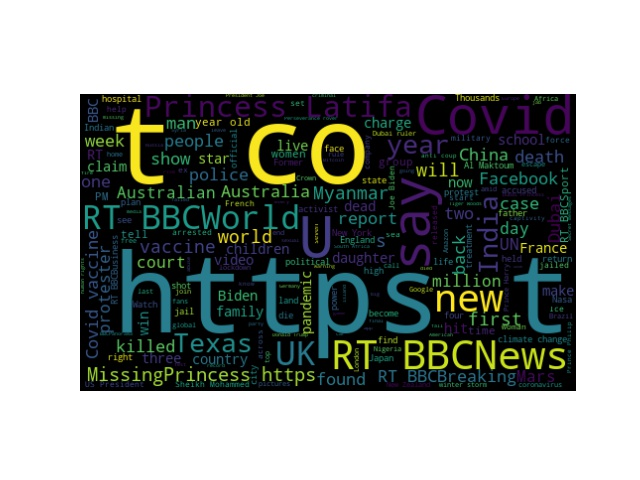
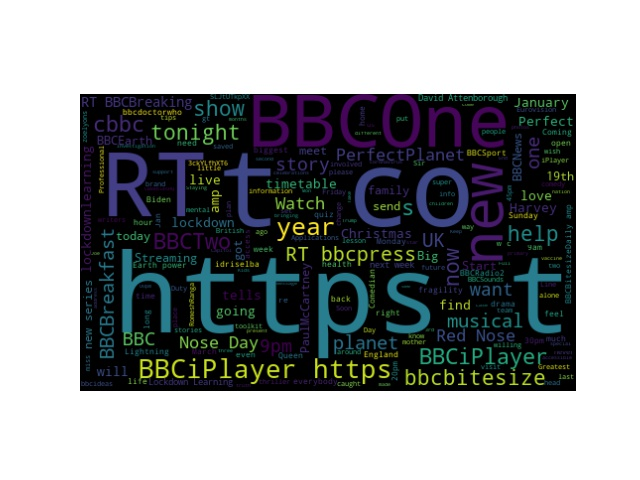
Almost done and new version for the project

Changed region(s): [[0.125, 0.1875, 0.9062, 0.8125]]

diff --git a/TwitterApp.py b/TwitterApp.py
@@ -37,29 +37,82 @@ api = tweepy.API(authenticate, wait_on_rate_limit=True)
 
 
 def app():
+    # Decorating the Nav Bar which is left side of APP
     st.sidebar.header("NAVIGATION")
-    st.title("Tweet Analyzer 🔥")
-    activities = ["Tweet Analyzer", "Generate Twitter Data",
+    st.title("REAL TIME SENTIMENT ANALYSIS ON TWITTER ✨")
+    activities = ["Collect The Data", "Clean The Data", "Summary View of Tweets Collected",
                   "Tweet Analyzer Using K Means", "Tweet Analyser with search keyword"]
+
     # choice = st.sidebar.selectbox("Type Of your Activity", activities)
     choice = st.sidebar.radio("Select Your Activity", activities)
     st.sidebar.header("CONFIGURATION NAV BAR")
-    No_Of_Tweets = st.sidebar.slider("No of Tweets", 1000, 10000)
+    No_Of_Tweets = st.sidebar.slider("No of Tweets", 100, 5000)
     No_Of_Tweets_In_String = str(No_Of_Tweets)
+    UserID = st.text_area(
+        "Enter the exact twitter User Id of the User you want to Analyze (without @)")
+    st.markdown(
+        "🔴 Note--> Don't move to next Navbar Section without completing this section.")
+    TweetsData = pd.DataFrame()
 
-    if(choice == "Tweet Analyzer"):
-        st.subheader("Analyze the tweets of your favourite User")
+    def collectData():
+        posts = tweepy.Cursor(api.user_timeline, screen_name=UserID,
+                              tweet_mode="extended").items(No_Of_Tweets)
+        TweetsData = pd.DataFrame(
+            [tweet.full_text for tweet in posts], columns=['Tweets'])
+        return(TweetsData)
+
+    # Step 1
+    if(choice == "Collect The Data"):
+        st.subheader("Analyze the tweets of your favourite User 👦👧:")
+        st.subheader("This tool performs the following tasks as given below:")
+        st.write("1. Fetches the 5 most recent tweets from the given twitter handel")
+        st.write("2. It also collects the tweets which are tweeted by a userID")
+        st.write("3. In this section you just collect the Real Time data and can be used for analyses purpose in next section.")
+
+        if(st.button("Collect The Data")):
+            st.success("Data is being Collected wait for some time")
+            posts = tweepy.Cursor(
+                api.user_timeline, screen_name=UserID, tweet_mode="extended").items(No_Of_Tweets)
+            TweetsData = pd.DataFrame(
+                [tweet.full_text for tweet in posts], columns=['Tweets'])
+            st.write(TweetsData)
+
+    # Step 2
+    elif(choice == "Clean The Data"):
+        TweetsData = collectData()
+
+        def cleanTxt(text):
+            # Removing @mentions
+            text = re.sub('@[A-Za-z0–9]+', '', text)
+            text = re.sub('#', '', text)  # Removing '#' hash tag
+            text = re.sub('RT[\s]+', '', text)  # Removing RT
+            text = re.sub('https?:\/\/\S+', '', text)  # Removing hyperlink
+            return(text)
+
+        # Clean the tweets
+        TweetsData['Tweets'] = TweetsData['Tweets'].apply(cleanTxt)
+        st.write(TweetsData)
+
+    # Step 3
+    elif(choice == "Summary View of Tweets Collected"):
+        TweetsData = collectData()
+
+        def cleanTxt(text):
+            # Removing @mentions
+            text = re.sub('@[A-Za-z0–9]+', '', text)
+            text = re.sub('#', '', text)  # Removing '#' hash tag
+            text = re.sub('RT[\s]+', '', text)  # Removing RT
+            text = re.sub('https?:\/\/\S+', '', text)  # Removing hyperlink
+            return(text)
+        # Clean the tweets
+        TweetsData['Tweets'] = TweetsData['Tweets'].apply(cleanTxt)
+
+        st.subheader("Analyze the tweets of your favourite User 👦👧:")
         st.subheader("This tool performs the following tasks as given below:")
         st.write("1. Fetches the 5 most recent tweets from the given twitter handel")
         st.write("2. Generates a Word Cloud")
         st.write(
             "3. Performs Sentiment Analysis a displays it in form of a Bar Graph")
-
-        raw_text = st.text_area(
-            "Enter the exact twitter User Id of the User you weant to Analyze (without @)")
-
-        st.markdown(
-            "<--------Also Do checkout the another cool tool from the sidebar which is left side")
 
         Analyzer_choice = st.selectbox("Select the Activities",  [
                                        "Show Recent Tweets", "Generate WordCloud", "Visualize the Sentiment Analysis"])
@@ -70,22 +123,18 @@ def app():
 
                 def Show_Recent_Tweets(raw_text):
                     rl = []
-                    for status in tweepy.Cursor(api.user_timeline, screen_name=raw_text, tweet_mode="extended").items(5):
-                        rl.append(status.full_text)
+                    for i in range(0, 6):
+                        rl.append(TweetsData['Tweets'][i])
                     return(rl)
 
-                recent_tweets = Show_Recent_Tweets(raw_text)
+                recent_tweets = Show_Recent_Tweets(UserID)
                 st.write(recent_tweets)
 
             elif(Analyzer_choice == "Generate WordCloud"):
                 st.success("Generating Word Cloud")
 
                 def gen_wordcloud():
-                    posts = tweepy.Cursor(
-                        api.user_timeline, screen_name=raw_text, tweet_mode="extended").items(No_Of_Tweets)
-                    # Create a dataframe with a column called Tweets
-                    df = pd.DataFrame(
-                        [tweet.full_text for tweet in posts], columns=['Tweets'])
+                    df = TweetsData
                     # word cloud visualization
                     allWords = ' '.join([twts for twts in df['Tweets']])
                     wordCloud = WordCloud(
@@ -103,11 +152,7 @@ def app():
                 def Plot_Analysis():
                     st.success(
                         "Generating Visualisation for Sentiment Analysis of the User Given.")
-
-                    posts = tweepy.Cursor(
-                        api.user_timeline, screen_name=raw_text, tweet_mode="extended").items(No_Of_Tweets)
-                    df = pd.DataFrame(
-                        [tweet.full_text for tweet in posts], columns=['Tweets'])
+                    df = TweetsData
 
                     # Create a function to clean the tweets
                     def cleanTxt(text):
@@ -148,67 +193,6 @@ def app():
                 df = Plot_Analysis()
                 st.write(sns.countplot(x=df["Analysis"], data=df))
                 st.pyplot(use_container_width=True)
-    elif(choice == "Generate Twitter Data"):
-        st.subheader(
-            "This tool fetches the last "+No_Of_Tweets_In_String+" tweets from the twitter handel & Performs the following tasks")
-        st.write("1. Converts it into a DataFrame")
-        st.write("2. Cleans the text")
-        st.write(
-            "3. Analyzes Subjectivity of tweets and adds an additional column for it")
-        st.write(
-            "4. Analyzes Polarity of tweets and adds an additional column for it")
-        st.write(
-            "5. Analyzes Sentiments of tweets and adds an additional column for it")
-
-        user_name = st.text_area(
-            "*Enter the exact twitter handle of the Personality (without @)*")
-        st.markdown(
-            "<--------Also Do checkout the another cool tool from the sidebar")
-
-        def get_data(user_name):
-            posts = tweepy.Cursor(
-                api.user_timeline, screen_name=user_name, tweet_mode="extended").items(No_Of_Tweets)
-            df = pd.DataFrame(
-                [tweet.full_text for tweet in posts], columns=['Tweets'])
-
-            # cleaning the twitter text function
-            def cleanTxt(text):
-                text = re.sub('@[A-Za-z0–9]+', '', text)  # Removing @mentions
-                text = re.sub('#', '', text)  # Removing '#' hash tag
-                text = re.sub('RT[\s]+', '', text)  # Removing RT
-                text = re.sub('https?:\/\/\S+', '', text)  # Removing hyperlink
-                return(text)
-
-            # Clean the tweets
-            df['Tweets'] = df['Tweets'].apply(cleanTxt)
-
-            def getSubjectivity(text):
-                return(TextBlob(text).sentiment.subjectivity)
-
-            # Create a function to get the polarity
-            def getPolarity(text):
-                return(TextBlob(text).sentiment.polarity)
-
-            # Create two new columns 'Subjectivity' & 'Polarity'
-            df['Subjectivity'] = df['Tweets'].apply(getSubjectivity)
-            df['Polarity'] = df['Tweets'].apply(getPolarity)
-
-            def getAnalysis(score):
-                if(score < 0):
-                    return("Negative")
-                elif(score == 0):
-                    return("Neutral")
-                else:
-                    return("Positive")
-
-            df['Analysis'] = df['Polarity'].apply(getAnalysis)
-            return(df)
-
-        if(st.button("Show Data")):
-            st.success("Fetching Last "+No_Of_Tweets_In_String+" Tweets")
-            df = get_data(user_name)
-            st.write(df)
-
     elif(choice == "Tweet Analyzer Using K Means"):
         st.subheader(
             "This tool fetches the last "+No_Of_Tweets_In_String+" tweets from the twitter handel & Performs the following tasks")
@@ -221,35 +205,20 @@ def app():
         st.write(
             "5. Analyzes Sentiments of tweets and adds an additional column for it")
 
-        user_name = st.text_area(
-            "*Enter the exact twitter handle of the Personality (without @)*")
-        st.markdown(
-            "<--------Also Do checkout the another cool tool from the sidebar")
-
         if(st.button("Analyze")):
+            TweetsData = collectData()
 
-            def get_data(user_name):
-                posts = tweepy.Cursor(
-                    api.user_timeline, screen_name=user_name, tweet_mode="extended").items(No_Of_Tweets)
-                df = pd.DataFrame(
-                    [tweet.full_text for tweet in posts], columns=['Tweets'])
+            def cleanTxt(text):
+                # Removing @mentions
+                text = re.sub('@[A-Za-z0–9]+', '', text)
+                text = re.sub('#', '', text)  # Removing '#' hash tag
+                text = re.sub('RT[\s]+', '', text)  # Removing RT
+                text = re.sub('https?:\/\/\S+', '', text)  # Removing hyperlink
+                return(text)
+            # Clean the tweets
+            TweetsData['Tweets'] = TweetsData['Tweets'].apply(cleanTxt)
 
-                # cleaning the twitter text function
-                def cleanTxt(text):
-                    # Removing @mentions
-                    text = re.sub('@[A-Za-z0–9]+', '', text)
-                    text = re.sub('#', '', text)  # Removing '#' hash tag
-                    text = re.sub('RT[\s]+', '', text)  # Removing RT
-                    # Removing hyperlink
-                    text = re.sub('https?:\/\/\S+', '', text)
-                    return(text)
-
-                # Clean the tweets
-                df['Tweets'] = df['Tweets'].apply(cleanTxt)
-
-                return(df)
-
-            df = get_data(user_name)
+            df = TweetsData
             # TFIDF Approach
             tf_idf_vect = CountVectorizer(analyzer='word', ngram_range=(
                 1, 1), stop_words='english', min_df=0.0001)
@@ -338,7 +307,6 @@ def app():
             st.success("Fetching Last "+No_Of_Tweets_In_String+" Tweets")
             df = get_data(SearchKeyword)
             st.write(df)
-
     st.subheader(
         ' ---------------Created By :  Project 304 @KL University --------------- :sunglasses:')
 
